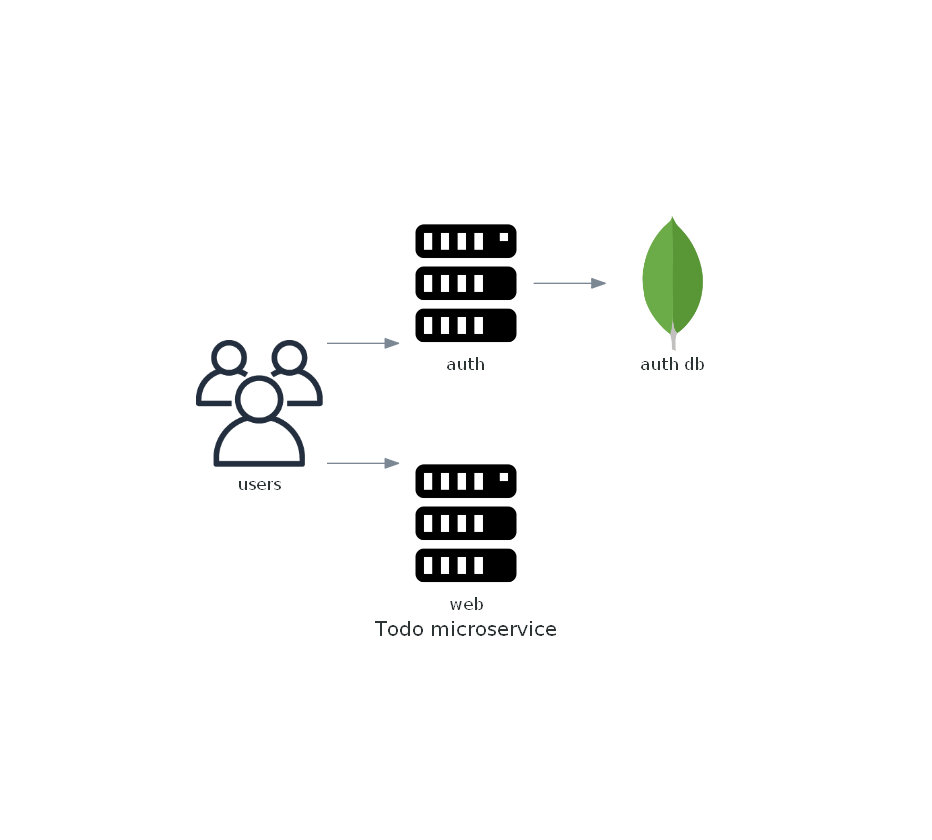
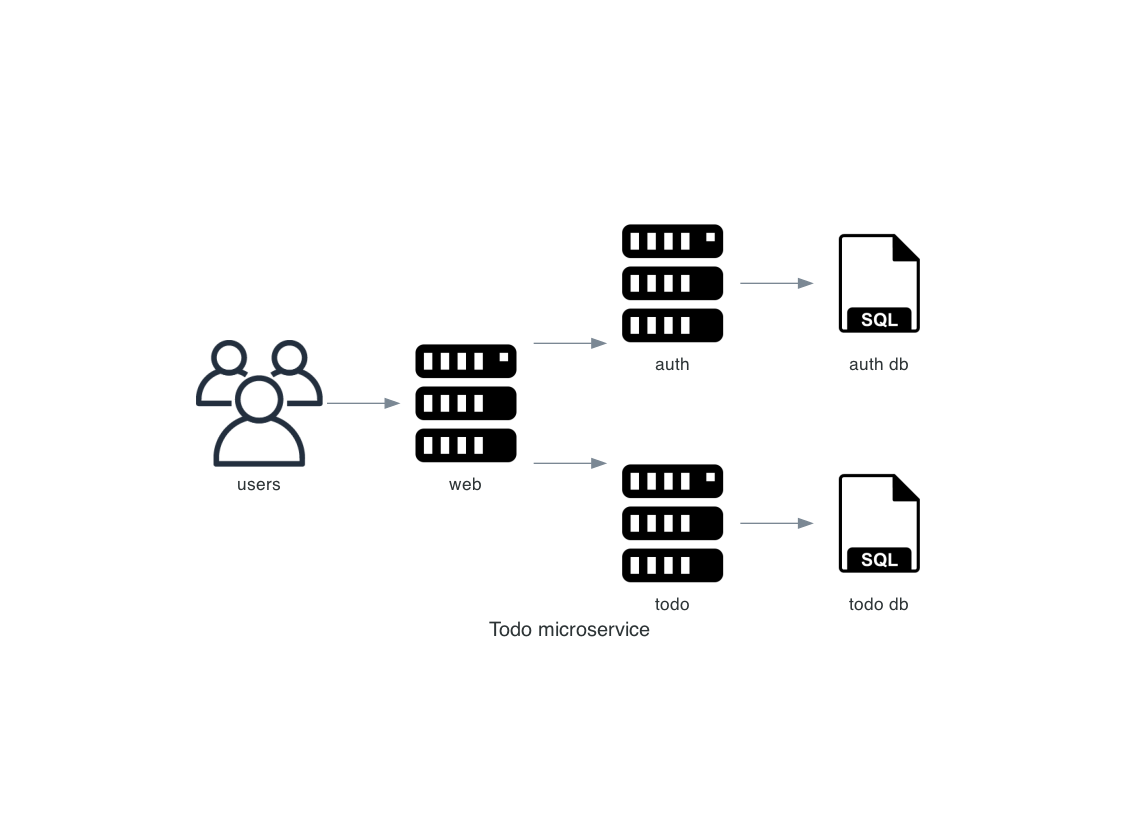
Updated todo microservices readme

diff --git a/To-do-list-microservices/diagram.py b/To-do-list-microservices/diagram.py
@@ -2,15 +2,18 @@ from diagrams import Cluster, Diagram
 from diagrams.onprem.compute import Server
 from diagrams.onprem.client import Users
 from diagrams.onprem.container import Docker
-from diagrams.onprem.database import MongoDB
+from diagrams.generic.database import SQL
 
 
 with Diagram("Todo microservice", show=False):
-    api = Server("auth")
+    auth = Server("auth")
+    todo = Server("todo")
     users = Users("users")
     web = Server("web")
-    auth_db = MongoDB("auth db")
+    auth_db = SQL("auth db")
+    todo_db = SQL("todo db")
 
-    users >> api >> auth_db
-
+    web >> auth >> auth_db
+    web >> todo >> todo_db
     users >> web
+

diff --git a/To-do-list-microservices/README.md b/To-do-list-microservices/README.md
@@ -1,0 +1,4 @@
+# Todo microservice
+
+Diagram
+![todo_microservice](todo_microservice.png)
